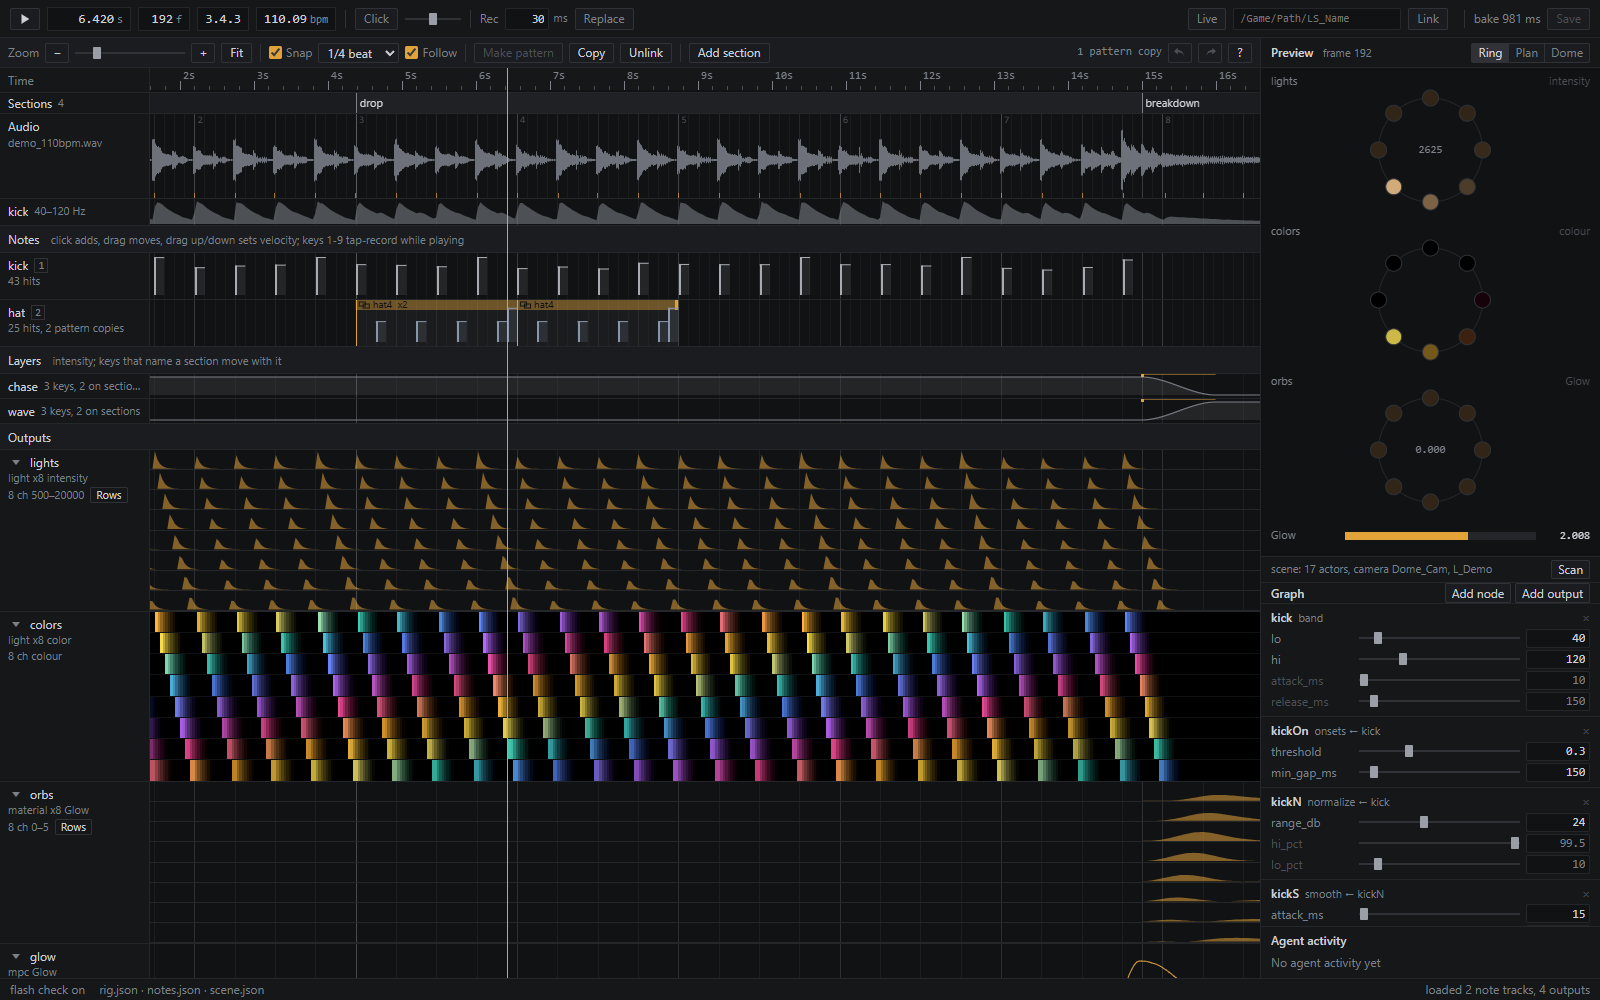
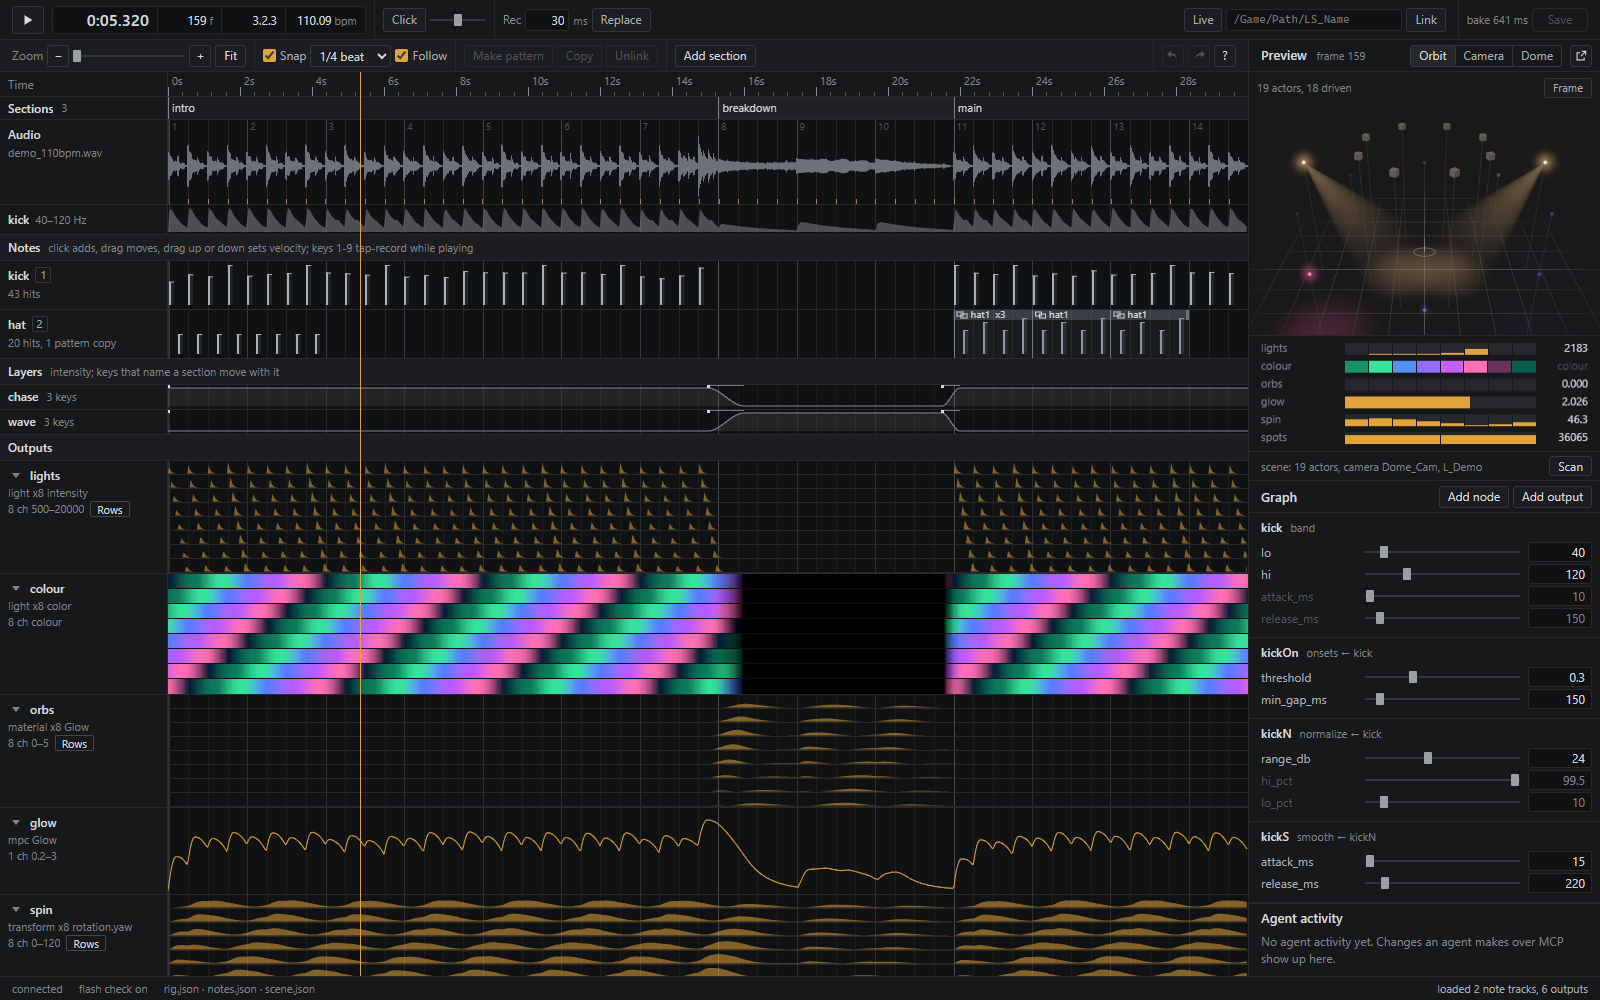
docs: the preview page, its 3D preview and pop-out window
README: a section on the preview page (lanes, graph panel, the 3D preview's modes, hover readout, meters, the
2D fallback and ?gl=0, the pop-out window), one preview image instead of two, a pop-out image, the dome image from
the new dome mode, and the preview page's status row. design.md: /preview, why the scene is WebGL2 while the lanes
stay Canvas 2D, and the measured numbers. CHANGELOG [Unreleased].

Claude-Session: https://claude.ai/code/session_01Lxqs8MbQcFTQCbGGkfuhw6

diff --git a/README.md b/README.md
@@ -10,8 +10,7 @@ ordinary Sequencer keys, so nothing has to be installed at render time and there
 be driven by an agent as well as by a person: there's a CLI, the files are hand-editable JSON, and an MCP server
 covers the whole loop from analysing the song to writing keys into Unreal. With the live link on, an edit lands in
 the Unreal viewport about a tenth of a second later.
-![The preview page: sections, waveform and beat grid, note lanes with linked patterns, layer fades, per-channel light curves and colour strips, and the ring, plan and dome previews](docs/img/preview.png)
-![The preview page: waveform and beat grid, note lanes, per-channel curves and a ring of lights](docs/img/preview.png)
+![The preview page: sections, waveform and beat grid, note lanes with linked patterns, layer fades, per-channel light curves and colour strips, the graph panel, and the 3D preview of the scanned scene with a meter per output](docs/img/preview.png)
 
 ## Three ways in
 
@@ -162,6 +161,27 @@ The rules every op follows (causal, eased, deterministic), every op's params and
 **[ops reference](docs/ops.md)**. The file formats (`rig.json`, `notes.json`, `bake.json`) and the reasoning behind
 them are in the [design doc](docs/design.md).
 
+## The preview page
+
+`beatrig serve` opens one page for the whole loop: the song's sections, waveform, beat grid and bands; the note lanes
+(click adds a hit, drag moves it, drag up or down sets its velocity; linked patterns; tap-record on keys 1-9); the
+layer fades; a lane per output with its baked curves or colour strips and any flash-safety windows; and a graph panel
+with a slider for every numeric parameter (releasing one re-bakes). `?` lists the keys.
+
+The **Preview** panel draws the scanned scene (`scene.json`) in 3D at the playhead, from the baked values. Lights glow
+in their colour with a pool of light on the floor, spot lights throw a beam, material- and Niagara-driven meshes glow,
+transform outputs move, turn and scale them, and MPC outputs lift the ambient light; the picture is drawn in linear
+light with bloom and fog. Three modes: **Orbit** (drag to turn, right-drag or Shift+drag to pan, wheel to zoom,
+double-click to frame), **Camera** (through the scene camera) and **Dome** (the domemaster from the dome camera,
+below). Hover an actor to read what drives it; a meter row per output sits under the view. It is plain WebGL2, no
+libraries; without WebGL2 (or with `?gl=0`) the 2D ring, plan and dome views stand in.
+
+The button beside the modes opens the preview in **its own window** (`/preview`), for a second monitor. It follows the
+page's playhead and every edit; its Space, arrow keys and scrub bar drive the page, which plays the audio, so the song
+is never heard twice. Opened on its own it plays silently. While it is open, the page folds its own preview away.
+
+![The pop-out preview window: the scene in orbit mode with two spot-light beams, the ring of lights and the meters](docs/img/popout.png)
+
 ## Unreal integration
 
 `ue/beatrig_apply.py` runs inside the Unreal editor (UE 5.x, Python Editor Script Plugin) and writes a bake into a
@@ -230,7 +250,7 @@ parameters, MPCs and the dome camera.
 
 Keep live rigs short (a scene, not a whole show): writing keys costs about 16 microseconds per key in the editor.
 
-The page's **Dome** view draws the scanned actors where they land on a domemaster from the scene's dome camera
+The preview's **Dome** mode draws the scanned actors where they land on a domemaster from the scene's dome camera
 (including its tilt), lit by their channels, so a `dome_wave` reads the way it will on the dome:
 
 <img src="docs/img/dome.png" alt="Dome view: lights placed on the dome master from a tilted dome camera" width="340">
@@ -251,7 +271,7 @@ v0.3.0. The test suite (134 tests) passes on Windows with Python 3.14; CI runs i
 |---|---|
 | Analysis, ops, notes, layers, bake, `check` | Tested: pytest suite (determinism, causality, op maths, notes round-trip, key simplification); the ring demo bakes byte-identically run to run |
 | CLI | Run by hand on the ring demo |
-| Preview page | Checked by hand in a browser |
+| Preview page | Checked in a browser. The 3D modes, the 2D fallback and the pop-out window's sync with the page (play, pause, seek, edits) were driven in headless Chrome over DevTools; a server test checks that every page file is served and packaged |
 | MCP server | Run end to end over stdio with the MCP Python SDK client (list tools, analyze, describe_audio, rig and notes edits, bake, plot, preview notify); no automated test yet |
 | `ue/keys.py` (tick maths, key planning, undo tags) | Tested: pytest |
 | `ue/beatrig_apply.py` (the in-editor applier) | Tested live in UE 5.8.3 for every target kind (scalar, colour, transform, Niagara) and for `multiply`/`add` blends on MPC, light and material targets: apply, key-for-key `check`, re-apply in place, `undo` including bindings. Transform and colour values were read back off the actors at the playhead |

diff --git a/docs/design.md b/docs/design.md
@@ -144,8 +144,20 @@ v0 shipped a JSON-only, polling page; v0.2 replaced the transport (see "Server e
   There is no polling.
 - `POST /api/rig`, `/api/notes`, `/api/edit` re-bake in memory; `POST /api/save` writes to disk with a `.bak`.
   `/api/live`, `/api/playhead`, `/api/scan` drive `beatrig.live.Link`.
-- Plain HTML/JS/CSS, Canvas 2D, no build step. Measured on a 60-minute rig: first paint 0.4-0.7 s, a full redraw
-  6.2 ms or less, `/api/state` 0.24 MB (it was 14 MB as JSON).
+- `GET /preview` serves the same page as a view-only pop-out window (the 3D preview alone, for a second monitor). It
+  follows the main page over a BroadcastChannel (time and play state on play, pause and seek, every 250 ms while
+  playing; it extrapolates in between) and edits over `/api/events`; its transport drives the main page, which owns
+  the audio. It never plays audio and never writes (no edits, no save, no editor playhead or scan).
+- Plain HTML/JS/CSS, no build step. The lanes are Canvas 2D: they measured well inside budget, so WebGL would buy them
+  nothing. The scene preview is WebGL2 (`web/preview3d.js`, no libraries): it needs depth, additive light, bloom and a
+  frame on every display refresh while playing. It is drawn in linear light into a multisampled half-float buffer
+  (supersampled when the screen isn't high-DPI), bloomed, tone-mapped (1 - e^-x) and sRGB-encoded. The dome mode
+  places actors with the same projection as the 2D dome view (`domeProjectTo`, equal to `beatrig.spatial.dome_angles`),
+  so there is one implementation of the domemaster convention. Without WebGL2 the 2D ring, plan and dome views stay.
+- Measured on a synthetic 60-minute rig (32 lights with intensity and colour, an MPC, a 33-actor scene; headless
+  Chrome 157): first paint 0.38-0.48 s, a full redraw at fit 2.4-2.9 ms, a 60 s view 1.8-2.4 ms, a playback frame
+  0.1 ms p50 (the 3D preview's share 0.3 ms p50), `/api/state` 0.24 MB (it was 14 MB as JSON). The WebGL2 draw
+  (evaluate, fill, scene, bloom, tone map) allocates nothing: 1.5 bytes per frame over 4,000 draws, i.e. noise.
 
 ## Unreal applier (`ue/beatrig_apply.py`, runs inside the editor)
 Reads bake.json and writes keys into a Level Sequence, on tracks named `beatrig:<output id>[:<actor>]` and bindings

diff --git a/CHANGELOG.md b/CHANGELOG.md
@@ -9,6 +9,23 @@ project uses [semantic versioning](https://semver.org/).
 - `normalize` `ref_db` / `floor_db`: a fixed level scale instead of the bake's own percentiles, so a louder mix
   drives harder. `beatrig pin-levels <rig>` writes each node's current top and floor (the bake on that audio is
   unchanged).
+- Preview page: a **3D preview** of the scanned scene (plain WebGL2, no libraries), drawn from the baked values at the
+  playhead. Lights glow in their colour with a pool of light on the floor, spot lights throw a soft beam along their
+  forward axis, material- and Niagara-driven meshes glow, transform outputs move, turn and scale them, and MPC outputs
+  lift the ambient light, in linear light with bloom, fog and supersampling. Modes: orbit (drag, right/Shift-drag,
+  wheel, double-click frames), camera (through `scene.camera`) and dome (the domemaster, same projection as before).
+  Hover an actor to read what drives it; a meter row per output sits under the view. Without WebGL2, or with `?gl=0`,
+  the 2D ring, plan and dome views stay. Spot cone angles come from `outer_cone_angle` / `cone_angle` on a scene
+  component when present (the scan doesn't record them yet), else Unreal's default 44 degrees.
+- Preview page: a **pop-out preview window** (`/preview`, the button beside the preview modes) for a second monitor. It
+  follows the page's playhead and edits; its transport drives the page, which plays the audio, so nothing is heard
+  twice. On its own it plays silently. The page folds its own preview away while one is open.
+
+### Changed
+- Preview page: refined UI. A grouped transport with an m:ss.mmm timecode, a type scale on the system UI font with
+  tabular figures, 4/8 px spacing, readable lane heads, node cards in the graph panel, keyboard keys in the help, and
+  clear empty, offline and load-failure states with a connection indicator. The canvases take their colours and font
+  from the CSS tokens.
 
 ### Fixed
 - Preview page: with the playhead linked to a sequence that has its own audio track, the page mutes itself, so the
